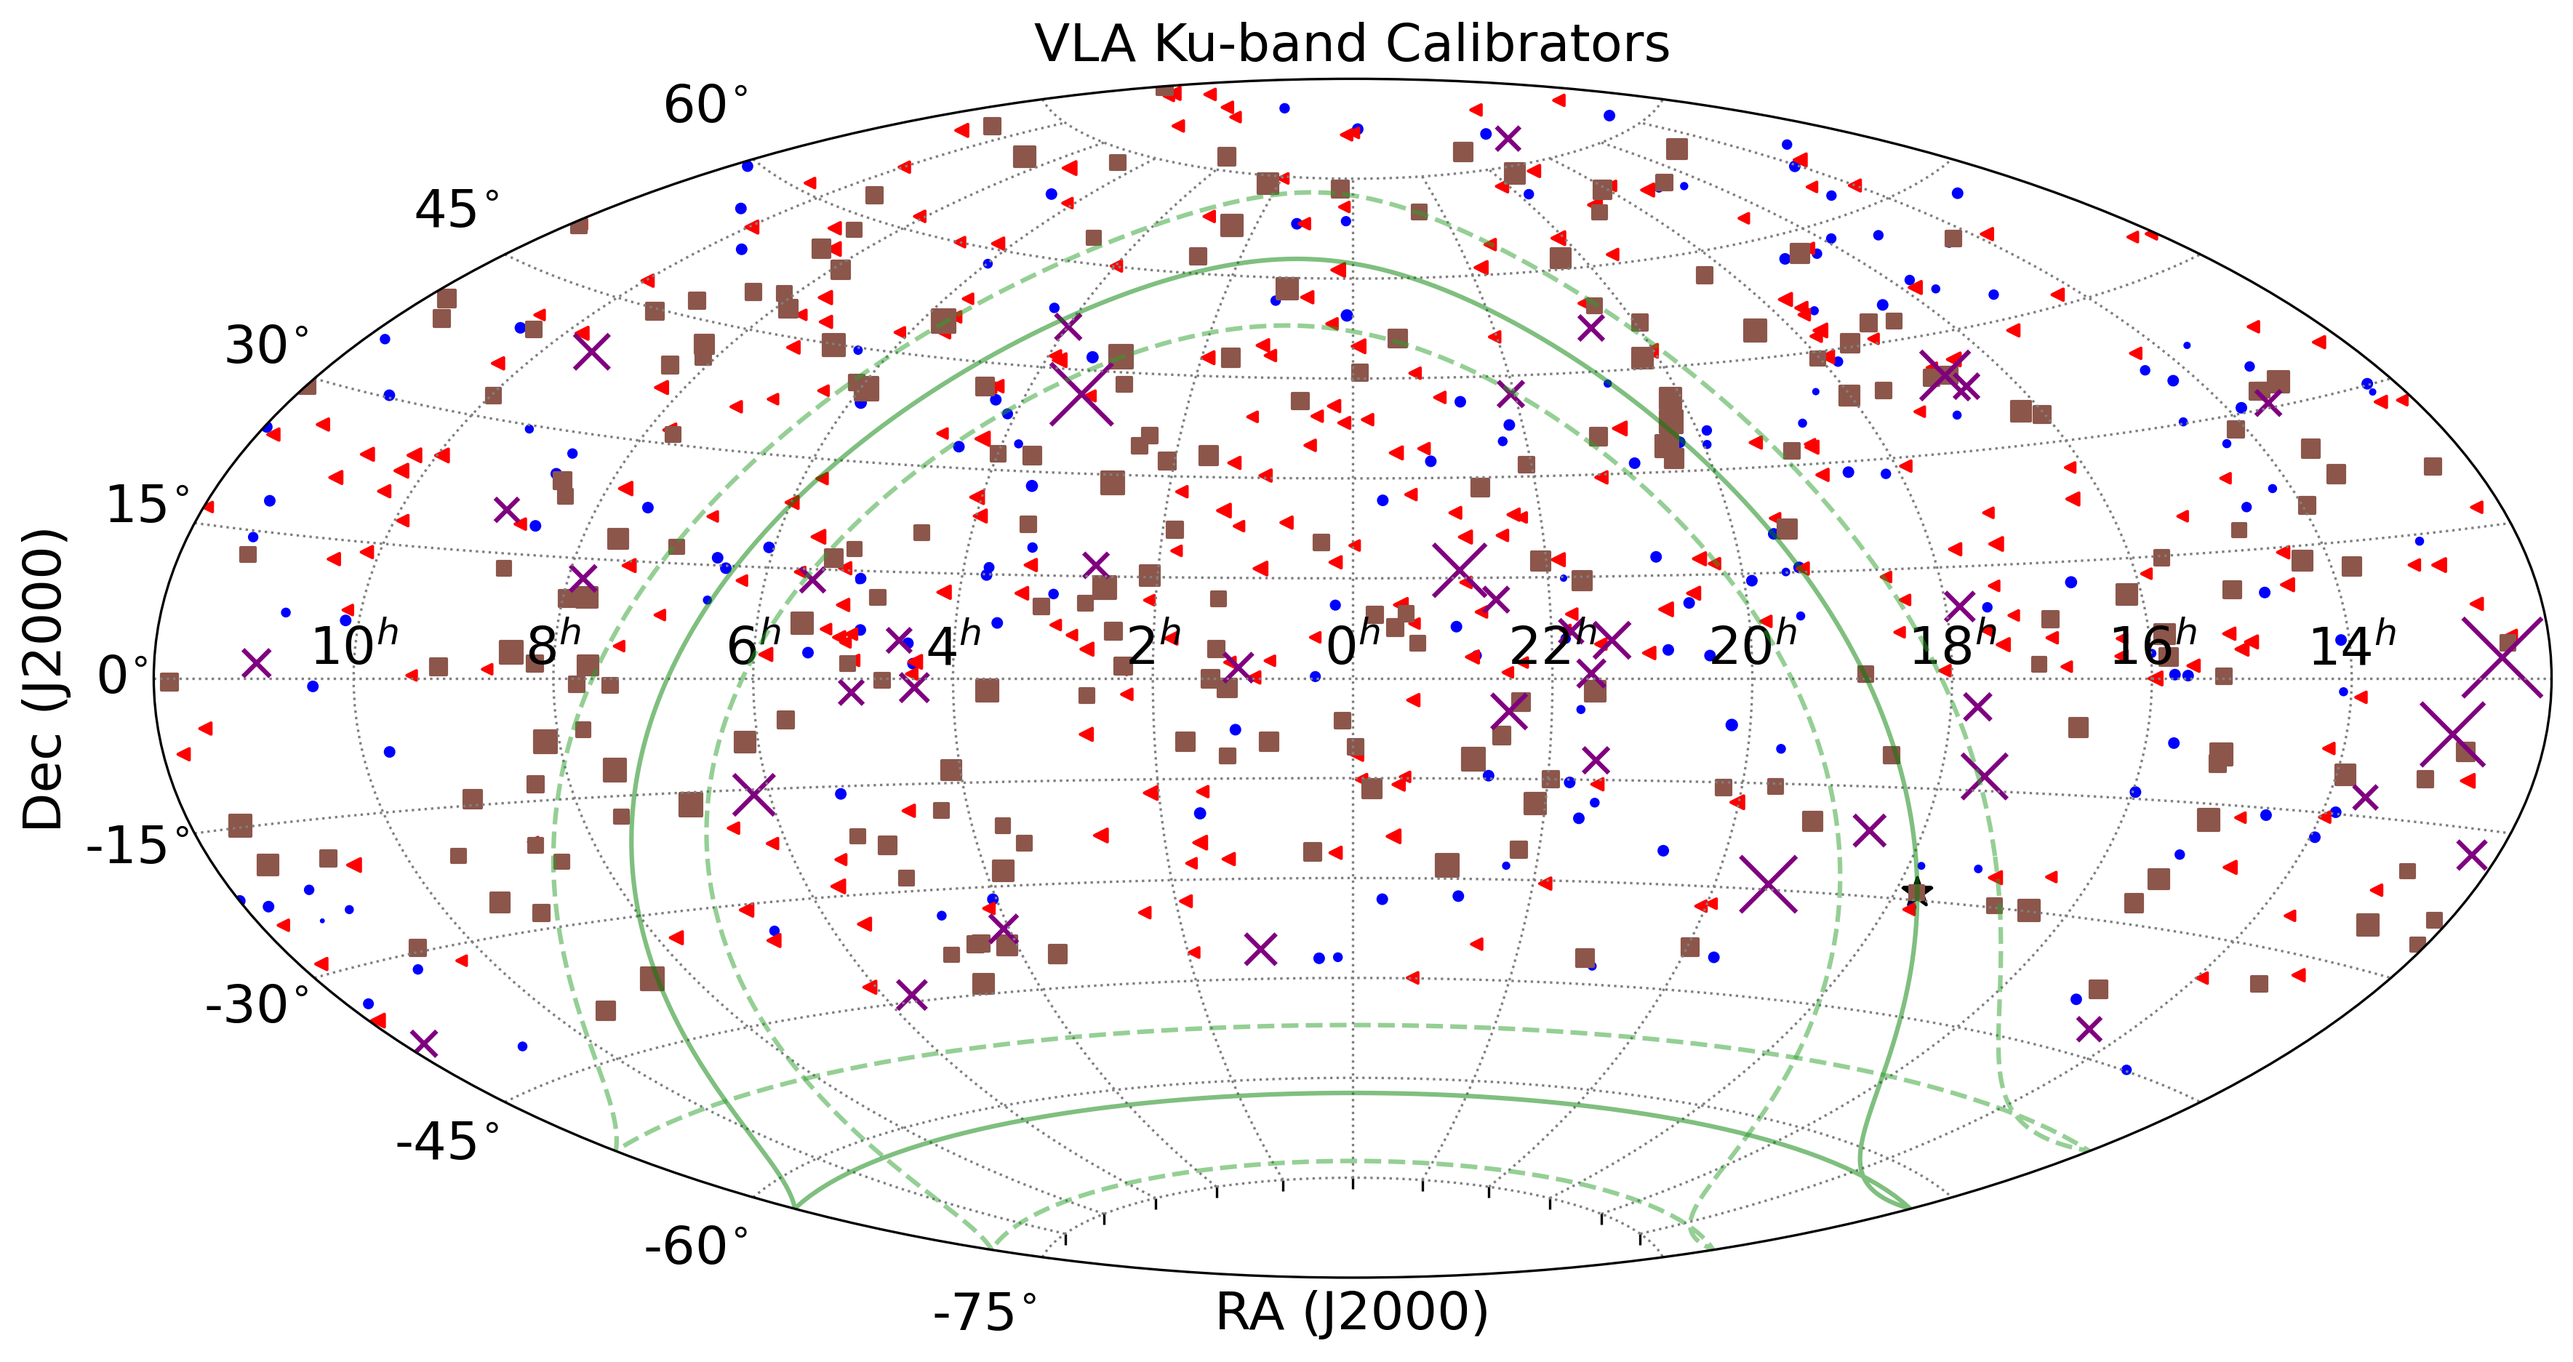
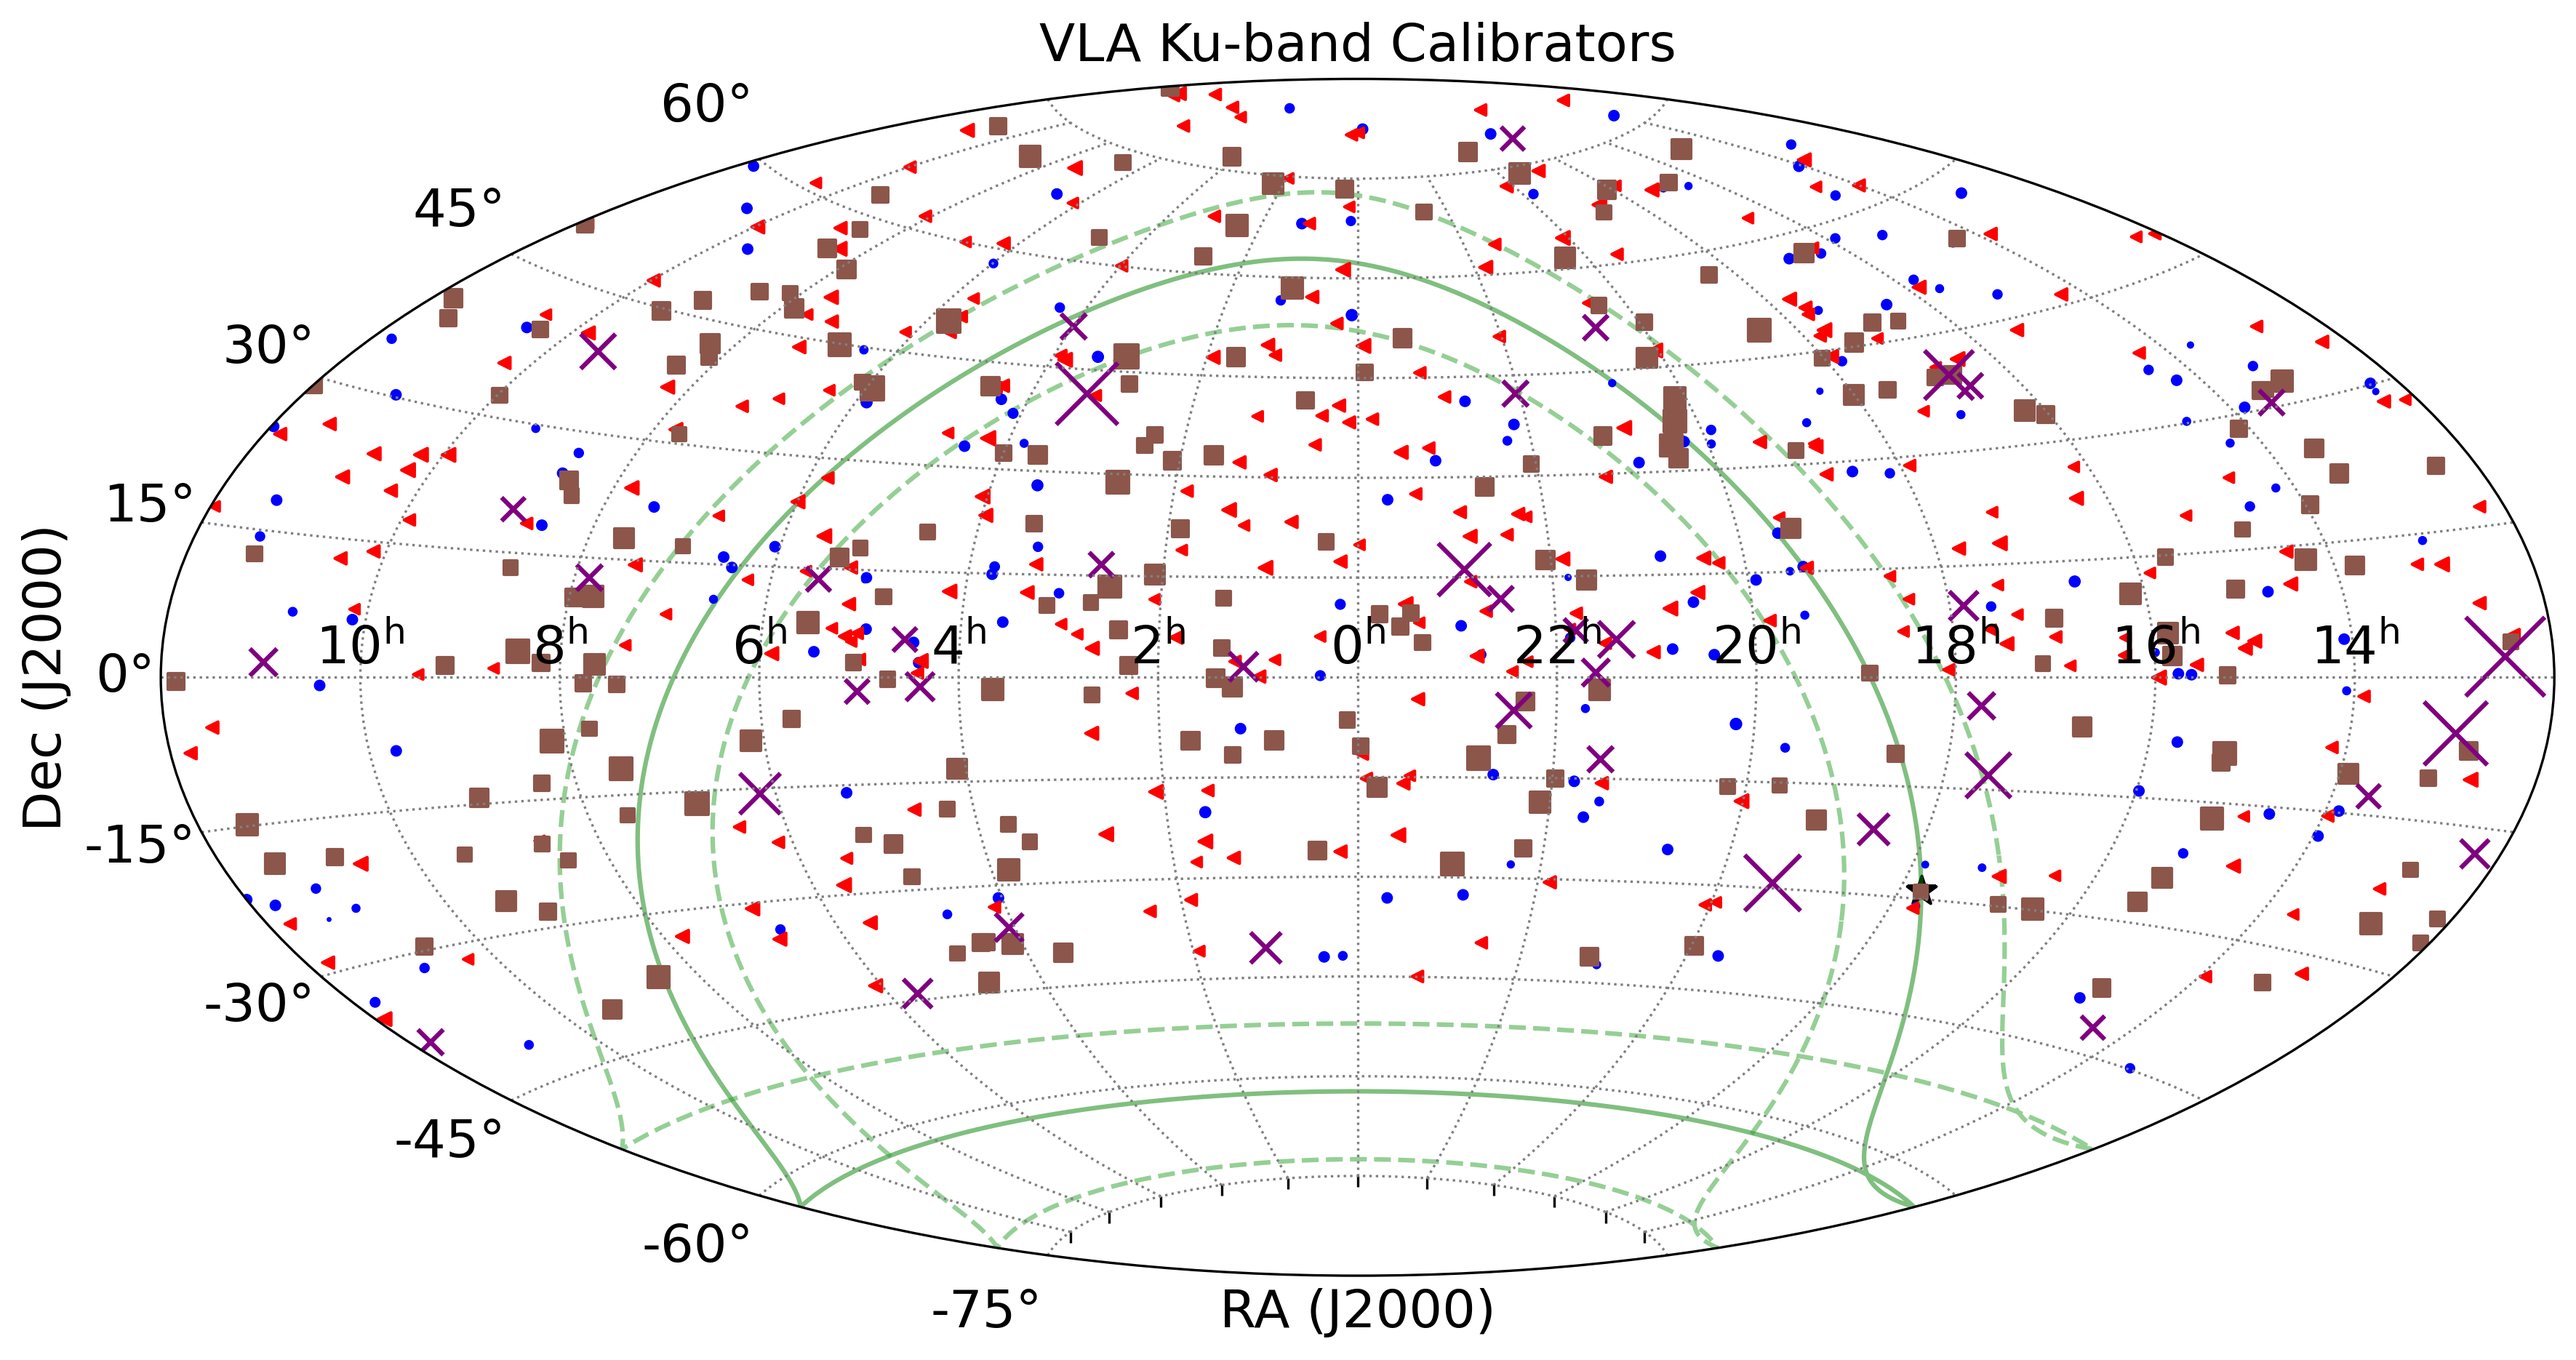
small update, catalog_sky_dist looks better

diff --git a/plot_catalog_sky_dist.py b/plot_catalog_sky_dist.py
@@ -27,43 +27,6 @@ def load_catalog(file_cata):
     sour_list = np.genfromtxt(file_cata,delimiter=',',skip_header=1,dtype=None,names=hdr,encoding=None)
     return sour_list
 
-def plot_hist(flux,n_bins=200, file_out=None,fext='png',isshow=True,plottype='line',xmin=0,xmax=5,fontsize='xx-large',xlabel='Flux [Jy]',ylabel='Counts'):
-
-    fig, axs = plt.subplots(1, 2, tight_layout=True, figsize=(12,5))
-    
-    # N is the count in each bin, bins is the lower-limit of the bin
-    N, bins, patches = axs[0].hist(flux, bins=n_bins)
-    
-    # We'll color code by height, but you could use any scalar
-    fracs = N / N.max()
-    
-    # we need to normalize the data to 0..1 for the full range of the colormap
-    norm = colors.Normalize(fracs.min(), fracs.max())
-    
-    # Now, we'll loop through our objects and set the color of each accordingly
-    for thisfrac, thispatch in zip(fracs, patches):
-        color = plt.cm.viridis(norm(thisfrac))
-        thispatch.set_facecolor(color)
-    
-    # We can also normalize our inputs by the total number of counts
-    axs[1].hist(flux, bins=n_bins, density=True)
-    
-    # Now we format the y-axis to display percentage
-    axs[1].yaxis.set_major_formatter(PercentFormatter(xmax=5))
-    axs[0].set_xlim([xmin,xmax])
-    axs[1].set_xlim([xmin,xmax])
-    axs[0].set_xlabel(xlabel,fontsize=fontsize)
-    axs[1].set_xlabel(xlabel,fontsize=fontsize)
-    axs[0].set_ylabel(ylabel,fontsize=fontsize)
-    axs[0].tick_params(axis='both', labelsize=fontsize) #which='minor'
-    axs[1].tick_params(axis='both', labelsize=fontsize) #which='minor'
-    fig.suptitle('VLA Ku-band (2cm) Calibrator Flux Distribution',fontsize=fontsize)
-    if file_out is not None:
-        plt.savefig(file_out,format=fext,dpi=300)
-    if isshow:
-        plt.show()
-    plt.close()
-    return 0
 #===================
 def plot_equ_sky_scatter(sources,size=None,colorInd=None,file_out=None,isshow=True,fontsize='x-large',plotGP=True,ax_factor=1):
 
@@ -85,12 +48,10 @@ def plot_equ_sky_scatter(sources,size=None,colorInd=None,file_out=None,isshow=Tr
         equp = galp.transform_to('icrs')
         equm = galm.transform_to('icrs')
         ax.scatter(ax_factor*gc_equ.ra.wrap_at(180*u.deg).radian, gc_equ.dec.wrap_at(180*u.deg).radian,marker='*',s=100,color='black')
-        ax.plot(ax_factor*equ0.ra.wrap_at(180*u.deg).radian, equ0.dec.wrap_at(180*u.deg).radian, alpha=0.5,color='green',linestyle='-')
-        ax.plot(ax_factor*equp.ra.wrap_at(180*u.deg).radian, equp.dec.wrap_at(180*u.deg).radian, alpha=0.5,color='tab:green',linestyle='--')
-        ax.plot(ax_factor*equm.ra.wrap_at(180*u.deg).radian, equm.dec.wrap_at(180*u.deg).radian, alpha=0.5,color='tab:green',linestyle='--')
+        ax.plot(ax_factor*equ0.ra.wrap_at(180*u.deg).radian, equ0.dec.wrap_at(180*u.deg).radian, alpha=0.5, zorder=1, color='green',     linestyle='-' )
+        ax.plot(ax_factor*equp.ra.wrap_at(180*u.deg).radian, equp.dec.wrap_at(180*u.deg).radian, alpha=0.5, zorder=1, color='tab:green', linestyle='--')
+        ax.plot(ax_factor*equm.ra.wrap_at(180*u.deg).radian, equm.dec.wrap_at(180*u.deg).radian, alpha=0.5, zorder=1, color='tab:green', linestyle='--')
        
-
-#    ax.scatter(ax_factor*sources.ra.wrap_at(180*u.deg).radian, sources.dec.wrap_at(180*u.deg).radian,s=size*2)
     ind0 = np.where(size < 0.5)
     ind1 = np.where((size >= 0.5) & (size < 1.0))
     ind2 = np.where((size >= 1.0) & (size < 3.0))
@@ -105,11 +66,11 @@ def plot_equ_sky_scatter(sources,size=None,colorInd=None,file_out=None,isshow=Tr
     ax.scatter(ax_factor*sources.ra.wrap_at(180*u.deg).radian[ind3], sources.dec.wrap_at(180*u.deg).radian[ind3],s=size[ind3]*20,marker='x', color='purple')
     # -------------------------------------------------------------------------
     xt0 = ax_factor*np.array([-135,-90,-45,0,45,90,135])*np.pi/180
-    xtl0 =         ['15$^h$','18$^h$','21$^h$','0$^h$','3$^h$','6$^h$','9$^h$']
+    xtl0 =         ['15$^\mathrm{h}$','18$^\mathrm{h}$','21$^\mathrm{h}$','0$^\mathrm{h}$','3$^\mathrm{h}$','6$^\mathrm{h}$','9$^\mathrm{h}$']
     xt1 = ax_factor*np.array([-150,-120,-90,-60,-30,0,30,60,90,120,150])*np.pi/180
-    xtl1 =         ['14$^h$','16$^h$','18$^h$','20$^h$','22$^h$','0$^h$','2$^h$','4$^h$','6$^h$','8$^h$','10$^h$']
+    xtl1 =         ['14$^\mathrm{h}$','16$^\mathrm{h}$','18$^\mathrm{h}$','20$^\mathrm{h}$','22$^\mathrm{h}$','0$^\mathrm{h}$','2$^\mathrm{h}$','4$^\mathrm{h}$','6$^\mathrm{h}$','8$^\mathrm{h}$','10$^\mathrm{h}$']
     yt = np.array([-75,-60,-45,-30,-15,0,15,30,45,60,75])*np.pi/180
-    ytl = ['-75$^{\circ}$','-60$^{\circ}$','-45$^{\circ}$','-30$^{\circ}$','-15$^{\circ}$','0$^{\circ}$','15$^{\circ}$','30$^{\circ}$','45$^{\circ}$','60$^{\circ}$','']
+    ytl = ['-75°','-60°','-45°','-30°','-15°','0°','15°','30°','45°','60°','']
     ax.set_xticks(xt1)
     ax.set_xticklabels(xtl1,fontsize=fontsize)
     ax.set_yticks(yt)
@@ -120,7 +81,6 @@ def plot_equ_sky_scatter(sources,size=None,colorInd=None,file_out=None,isshow=Tr
     ax.set_title('VLA Ku-band Calibrators',fontsize=fontsize)
     ax.set_xlabel('RA (J2000)',fontsize=fontsize)
     ax.set_ylabel('Dec (J2000)',fontsize=fontsize)
-#    ax.set_facecolor('xkcd:battleship grey')
     # -------------------------------------------------------------------------
     plt.tight_layout()
     fig.patch.set_facecolor('white')
@@ -128,6 +88,7 @@ def plot_equ_sky_scatter(sources,size=None,colorInd=None,file_out=None,isshow=Tr
         fig.savefig(file_out, dpi=300,format='png',bbox_inches='tight')
     if isshow:
         plt.show()
+    plt.close()
     return 0
 #===================
 def catalog_to_Skycoord(sour_list):
